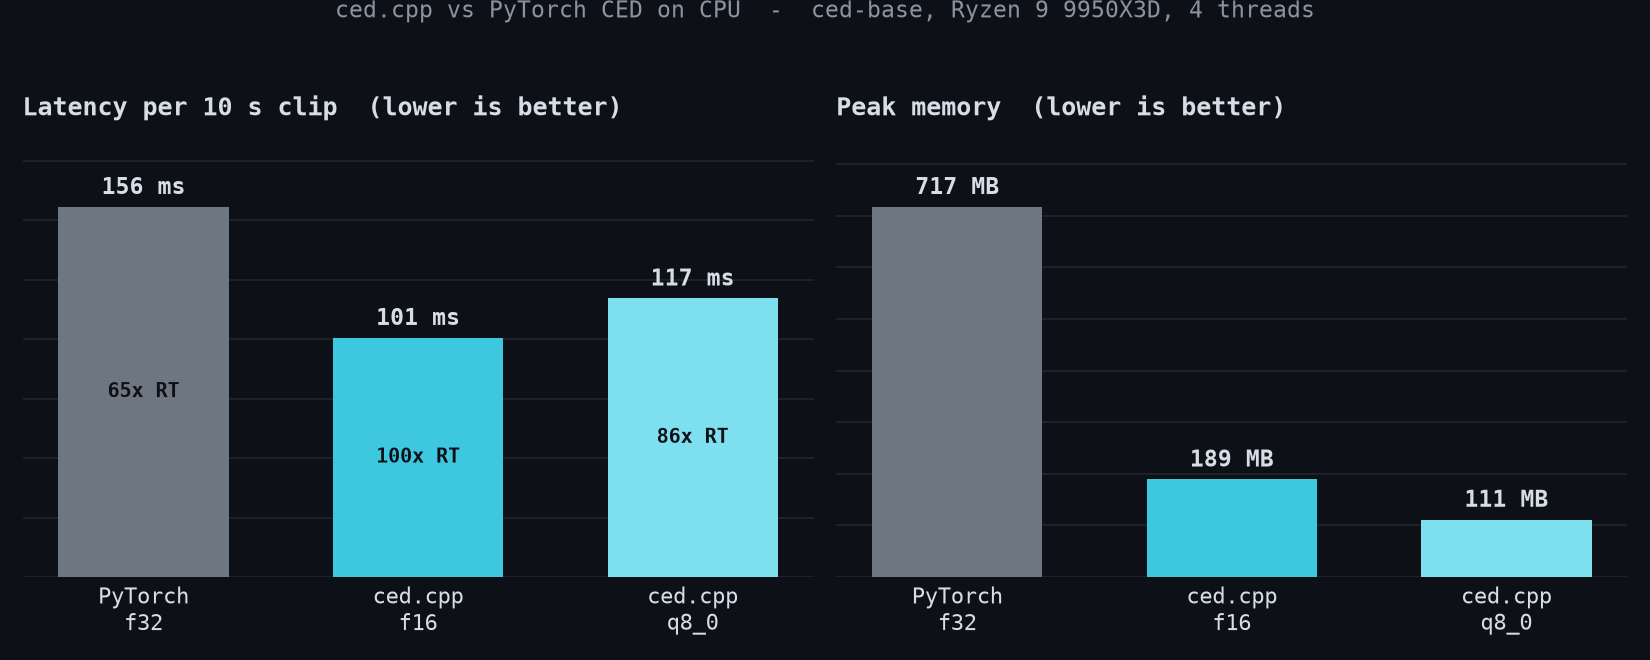
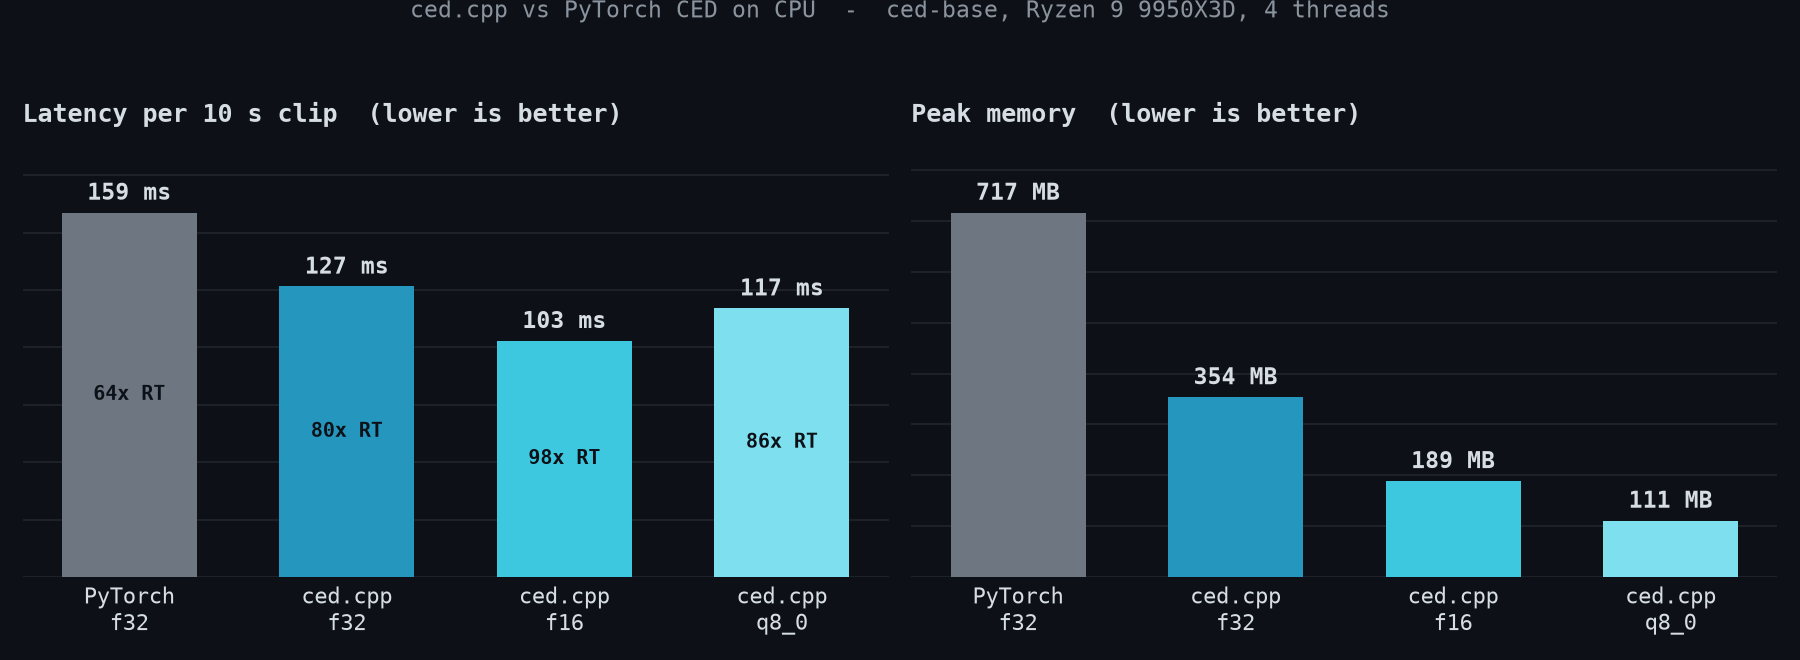
docs: fair same-precision benchmark (add ced.cpp f32)
The plot and README headline compared PyTorch f32 against ced.cpp f16, a
precision mismatch. Add the ced.cpp f32 bar/row so the apples-to-apples
comparison (f32 vs f32: ~1.25x faster, 2x less memory) is front and center,
with f16/q8_0 shown as the near-lossless quantized configs you would ship.
Numbers refreshed to a single consistent run (4 threads, 10s clip).

diff --git a/scripts/plot_benchmarks.py b/scripts/plot_benchmarks.py
@@ -62,20 +62,23 @@ def bars(ax, labels, values, colors, fmt, sub=None):
 
 
 # ---- figure 1: speed + memory --------------------------------------------
-fig, (a1, a2) = plt.subplots(1, 2, figsize=(11, 4.4))
-labels = ["PyTorch\nf32", "ced.cpp\nf16", "ced.cpp\nq8_0"]
-cols = [GRAY, CYAN, CYAN2]
+# Lead with the apples-to-apples PyTorch f32 vs ced.cpp f32 pair; f16/q8_0 are
+# the near-lossless quantized configs you'd actually ship.
+CYAN0 = "#2596be"    # ced.cpp f32 (darker cyan, the same-precision comparison)
+fig, (a1, a2) = plt.subplots(1, 2, figsize=(12, 4.4))
+labels = ["PyTorch\nf32", "ced.cpp\nf32", "ced.cpp\nf16", "ced.cpp\nq8_0"]
+cols = [GRAY, CYAN0, CYAN, CYAN2]
 
 style(a1, "Latency per 10 s clip  (lower is better)")
-bars(a1, labels, [155.7, 100.6, 117.2], cols, lambda v: f"{v:.0f} ms",
-     sub=["65x RT", "100x RT", "86x RT"])
+bars(a1, labels, [158.8, 126.6, 102.9, 117.1], cols, lambda v: f"{v:.0f} ms",
+     sub=["64x RT", "80x RT", "98x RT", "86x RT"])
 
 style(a2, "Peak memory  (lower is better)")
-bars(a2, labels, [717, 189, 111], cols, lambda v: f"{v:.0f} MB")
+bars(a2, labels, [717, 354, 189, 111], cols, lambda v: f"{v:.0f} MB")
 
 fig.suptitle("ced.cpp vs PyTorch CED on CPU  -  ced-base, Ryzen 9 9950X3D, 4 threads",
              color=DIM, fontsize=11, y=1.0, x=0.5)
-fig.tight_layout(rect=(0, 0, 1, 0.96))
+fig.tight_layout(rect=(0, 0, 1, 0.95))
 fig.savefig("media/bench.png", dpi=150)
 print("wrote media/bench.png")
 

diff --git a/docs/BENCHMARKS.md b/docs/BENCHMARKS.md
@@ -16,22 +16,24 @@ numerically (see [parity](../README.md)); this measures speed and memory.
 
 | Implementation        | 4-thread mean | 4-thread RTF | 1-thread mean | peak RSS |
 |-----------------------|--------------:|-------------:|--------------:|---------:|
-| PyTorch (transformers, f32) | 155.7 ms | 65x | 399.1 ms | 717 MB |
-| **ced.cpp f32**       | 124.7 ms | 81x  | 433.3 ms | 354 MB |
-| **ced.cpp f16**       | **100.6 ms** | **100x** | 354.3 ms | 189 MB |
-| **ced.cpp q8_0**      | 117.2 ms | 86x  | 410.3 ms | **111 MB** |
+| PyTorch (transformers, f32) | 158.8 ms | 64x | 399.1 ms | 717 MB |
+| **ced.cpp f32** (same precision) | 126.6 ms | 80x  | 433.3 ms | 354 MB |
+| **ced.cpp f16**       | **102.9 ms** | **98x** | 354.3 ms | 189 MB |
+| **ced.cpp q8_0**      | 117.1 ms | 86x  | 410.3 ms | **111 MB** |
 
-RTF = clip seconds / inference seconds (higher is faster; 100x = 100 s of audio
+RTF = clip seconds / inference seconds (higher is faster; ~100x = 100 s of audio
 classified per wall-second).
 
 ## Takeaways
 
-- **f16 is the CPU sweet spot**: 100.6 ms/clip, **1.55x faster than PyTorch** at
-  4 threads, and ~100x realtime. tinyBLAS's f16 GEMM is the win; q8_0 is slightly
-  slower (dequant overhead) but the smallest footprint.
-- **Memory**: ced.cpp q8_0 uses **111 MB vs PyTorch's 717 MB (6.5x less)**; f16 is
-  3.8x less. No Python/torch runtime is resident.
-- **Speedup at 4 threads vs PyTorch**: f16 1.55x, q8_0 1.33x, f32 1.25x.
+- **Same precision (f32 vs f32)** is the apples-to-apples comparison: ced.cpp is
+  **~1.25x faster (126.6 vs 158.8 ms) and uses 2x less memory (354 vs 717 MB)**
+  than PyTorch, at the same numerical output.
+- **The quantized configs go further** (near-lossless: identical top-5 tags):
+  **f16 is the CPU sweet spot** at 102.9 ms/clip (~1.5x faster than PyTorch f32,
+  ~100x realtime - tinyBLAS's f16 GEMM is the win), and **q8_0 drops to 111 MB**
+  (~6.5x less than PyTorch) for a small dequant-overhead latency cost.
+- **No Python/torch runtime is resident**, so peak RAM is much lower across the board.
 - **Single thread**: ced.cpp f16/q8 still beat PyTorch, but f32 is marginally
   slower (PyTorch's oneDNN GEMM is strong single-threaded). On CPU, prefer f16.
 - **Cold start**: `ced-cli classify` (model load + inference) completes in ~0.15 s

diff --git a/README.md b/README.md
@@ -63,11 +63,12 @@ ced.cpp is faster than the PyTorch reference on CPU and uses a fraction of the m
 
 | | latency / clip | realtime factor | peak RAM |
 | --- | --- | --- | --- |
-| PyTorch (`transformers` + `torchaudio`, f32) | 155.7 ms | 65x | 717 MB |
-| **ced.cpp f16** | **100.6 ms** | **100x** | 189 MB |
-| ced.cpp q8_0 | 117.2 ms | 86x | 111 MB |
+| PyTorch (`transformers` + `torchaudio`, f32) | 158.8 ms | 64x | 717 MB |
+| **ced.cpp f32** (same precision) | **126.6 ms** | 80x | 354 MB |
+| ced.cpp f16 | 102.9 ms | 98x | 189 MB |
+| ced.cpp q8_0 | 117.1 ms | 86x | 111 MB |
 
-f16 is ~1.55x faster than PyTorch; q8_0 uses ~6.5x less memory. And there is no multi-second `import torch` startup: `ced-cli` loads and classifies in well under a second.
+Same precision (f32 vs f32), ced.cpp is **~1.25x faster and uses 2x less memory** than PyTorch. The near-lossless quantized configs you would actually ship go further: f16 is ~1.5x faster, and q8_0 drops to 111 MB (~6.5x less than PyTorch). There is also no multi-second `import torch` startup - `ced-cli` loads and classifies in well under a second.
 
 Measure it yourself:
 